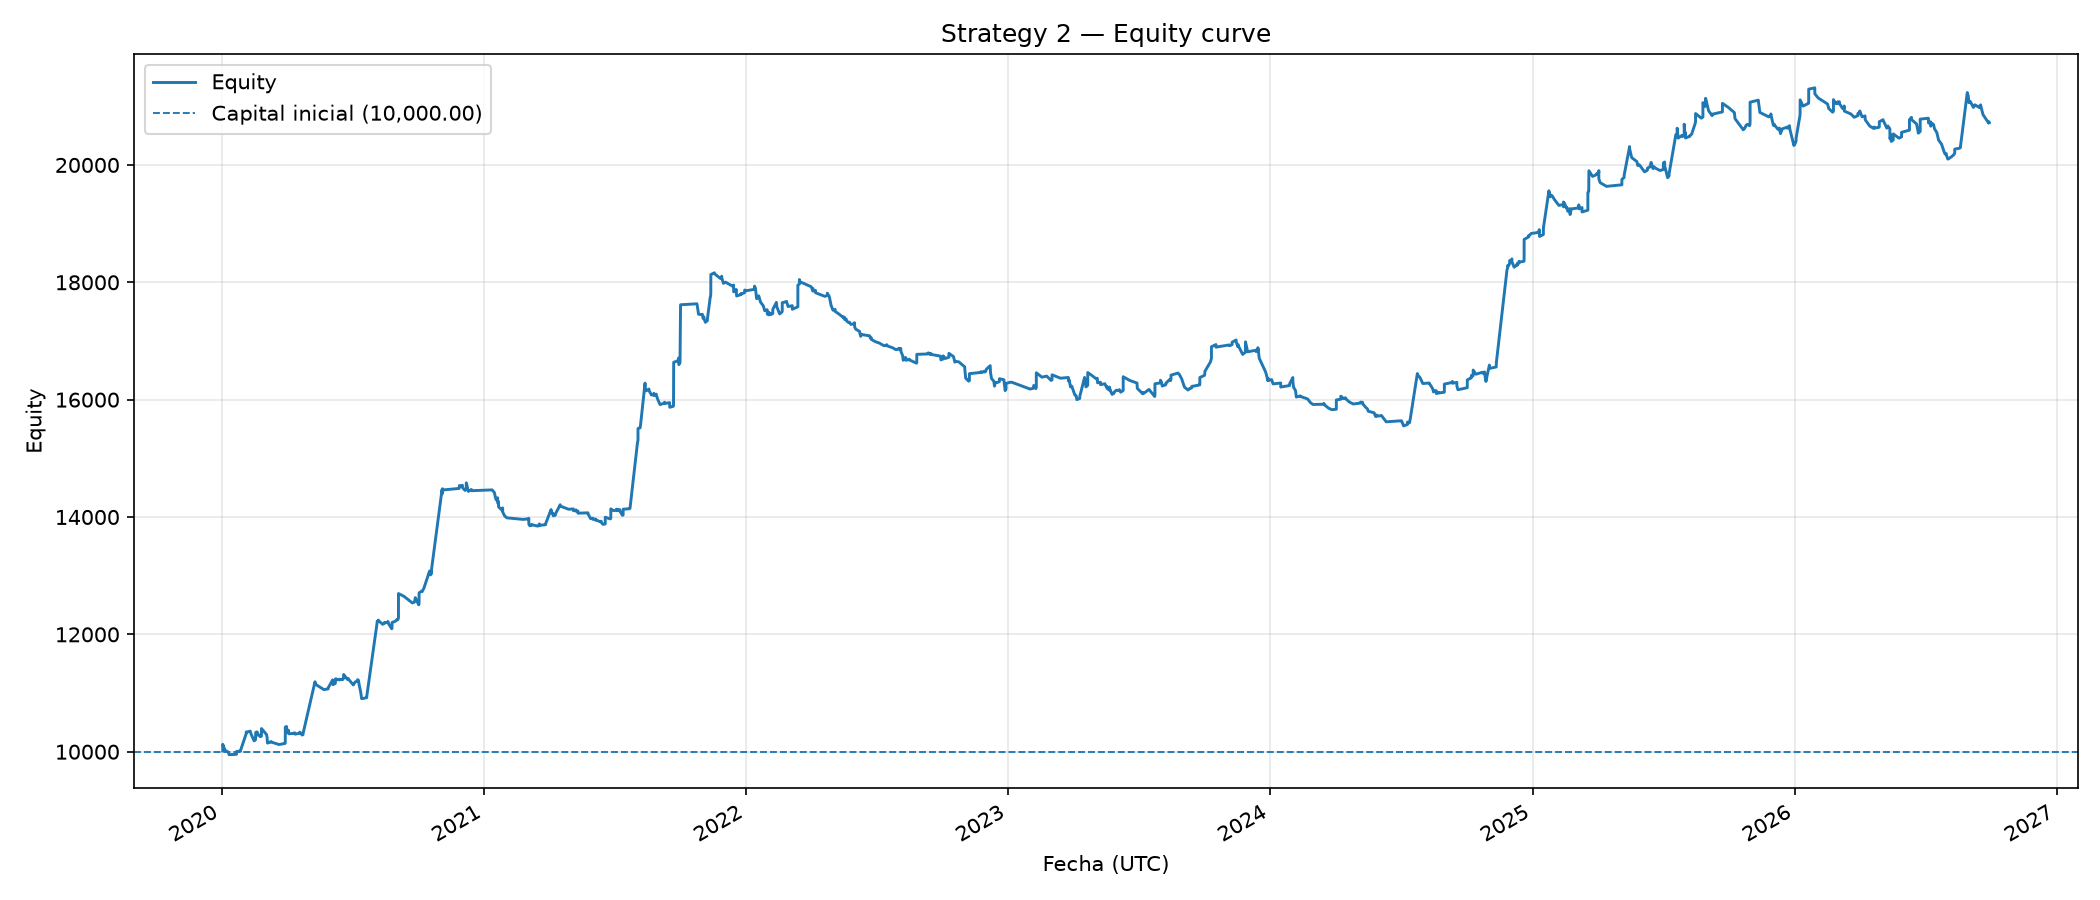
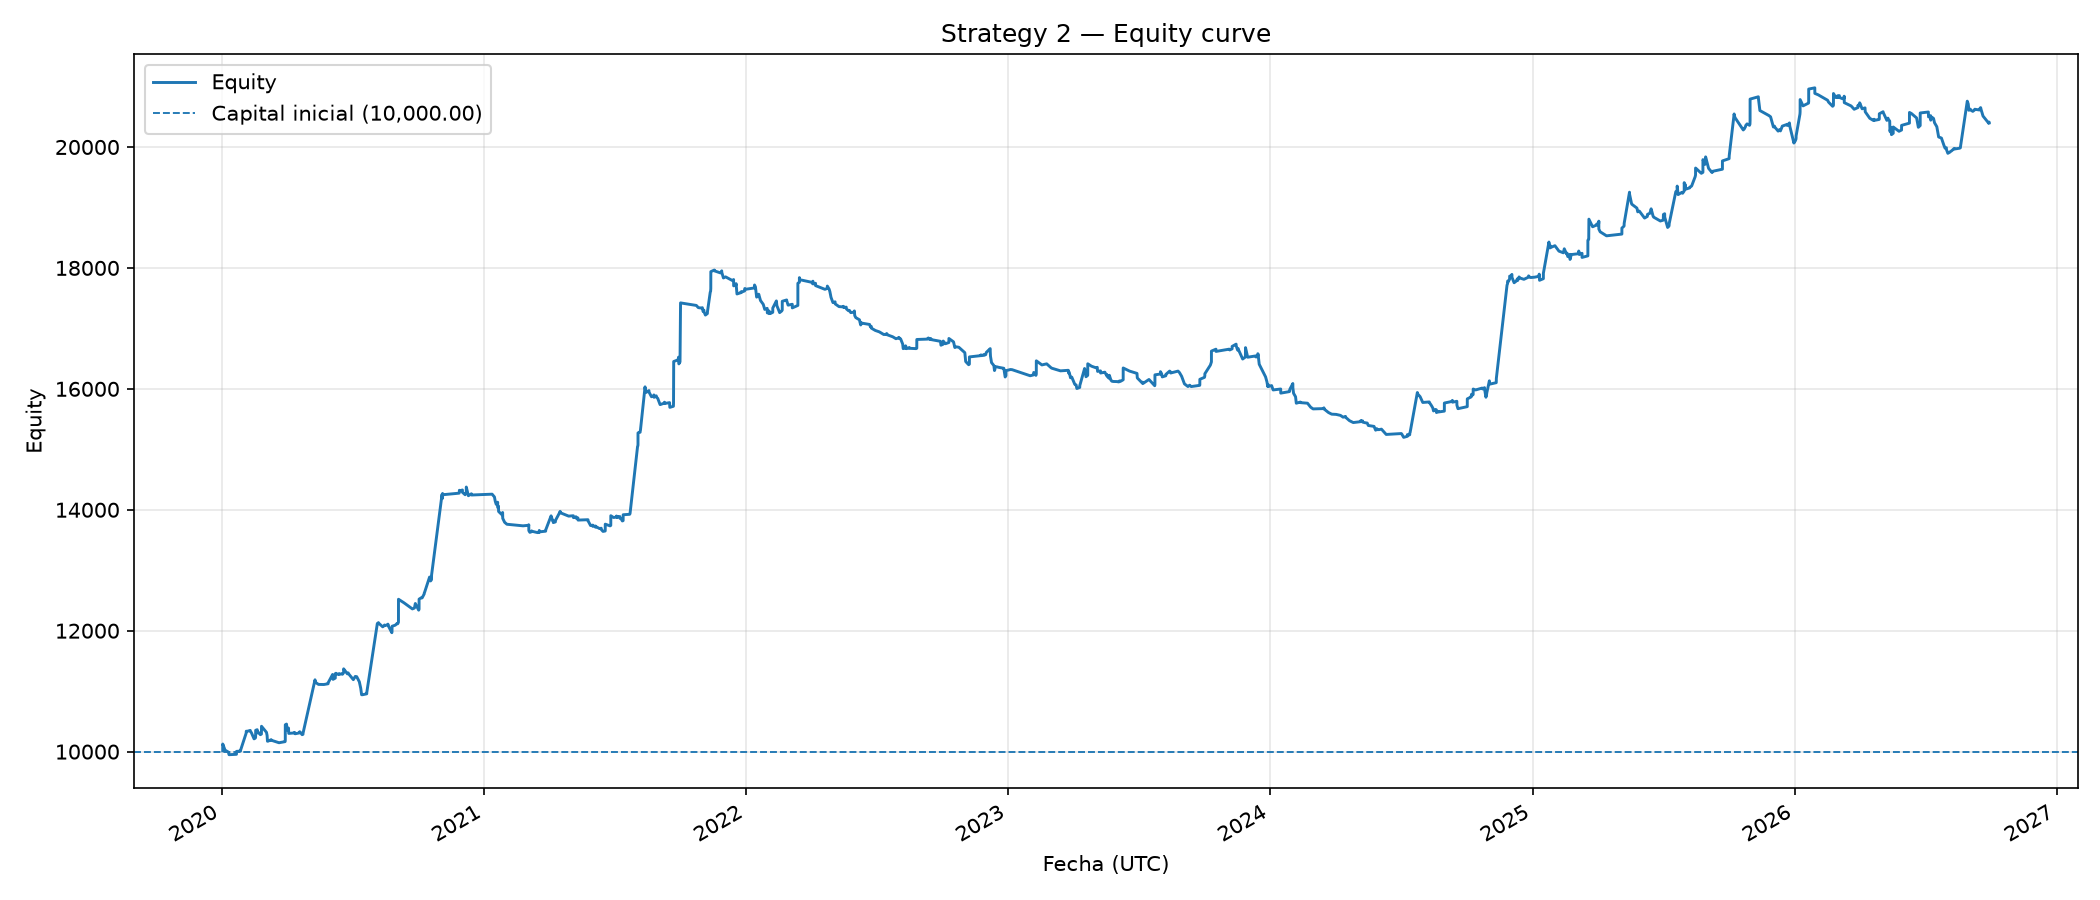
update

diff --git a/strategy/strategy.py b/strategy/strategy.py
@@ -424,6 +424,11 @@ class Backtester:
                  rsi_div_exit: Optional[np.ndarray] = None, verbose: bool = False):
         self.bars, self.cfg, self.verbose = bars, config, verbose
         self.signals = signals if signals is not None else EMACrossStrategy(config).generate_signals(bars)
+        self.ema_fast_line = (
+            self.signals["ema_fast"].to_numpy(float)
+            if "ema_fast" in self.signals
+            else ema(bars.close, config.ema_fast).to_numpy(float)
+        )
         if config.entry_atr_enabled:
             if "atr_filter_allowed" in self.signals:
                 self.entry_atr_allowed = self.signals["atr_filter_allowed"].to_numpy(bool)
@@ -737,6 +742,21 @@ class Backtester:
             return RSI_DIVERGENCE_BULL_REASON
         return None
 
+    def _first_candle_ema_fast_exit_reason(self, i: int) -> Optional[str]:
+        """Cierra si la vela posterior a la primera ejecución confirma contra EMA rápida."""
+        pos = self.position
+        if (pos is None or pos.entry_bar_index < 0
+                or i != pos.entry_bar_index + 1 or i >= len(self.ema_fast_line)):
+            return None
+        fast = self.ema_fast_line[i]
+        if not np.isfinite(fast):
+            return None
+        if pos.side == 1 and self.c[i] < fast:
+            return "FIRST_CANDLE_EMA_FAST_EXIT"
+        if pos.side == -1 and self.c[i] > fast:
+            return "FIRST_CANDLE_EMA_FAST_EXIT"
+        return None
+
     def _ema55_touch_weakness_exit_reason(self, i: int) -> Optional[str]:
         """Cierra LONG tras toques repetidos a EMA55 sin ruptura confirmada.
 
@@ -992,7 +1012,15 @@ class Backtester:
                           f"-{cfg.monthly_loss_limit_pct:g}% alcanzado; sin entradas hasta "
                           f"{scope}", flush=True)
 
-            if not stop_hit and bool(self.signals["valid"].iloc[i]):
+            first_candle_exit = (
+                self._first_candle_ema_fast_exit_reason(i)
+                if not stop_hit else None
+            )
+            if first_candle_exit is not None:
+                # La condición se conoce al cierre de la vela posterior a la
+                # primera ejecución y se liquida en la apertura siguiente.
+                self.pending_exit = (first_candle_exit, 100.0)
+            elif not stop_hit and bool(self.signals["valid"].iloc[i]):
                 target = int(self.signals["target"].iloc[i])
                 if cfg.entry_atr_enabled and not self.entry_atr_allowed[i]:
                     target = 0

diff --git a/tests/test_entry_partial_timing.py b/tests/test_entry_partial_timing.py
@@ -71,6 +71,43 @@ def test_entry_is_split_between_next_open_and_same_candle_close():
 
 
 @pytest.mark.parametrize(
+    ("side", "following_close", "should_exit"),
+    [
+        (1, 99.0, True),   # LONG: cierre por debajo de EMA rápida
+        (1, 100.0, False), # LONG: igualdad no cuenta como estar por debajo
+        (-1, 101.0, True), # SHORT: cierre por encima de EMA rápida
+        (-1, 100.0, False),# SHORT: igualdad no cuenta como estar por encima
+    ],
+)
+def test_first_candle_after_entry_closes_against_fast_ema(
+    side, following_close, should_exit
+):
+    index, bars, signals, config = setup_entry()
+    config.rsi_short_exit_enabled = False
+    signals.loc[index[0], "target"] = side
+
+    # La entrada se ejecuta en la apertura de index[1]. La condición se
+    # comprueba al cierre de index[2] y, si aplica, se ejecuta en index[3].
+    bars.loc[index[2], ["open", "high", "low", "close"]] = [
+        100.0, max(100.5, following_close), min(99.5, following_close), following_close
+    ]
+    next_index = index[-1] + pd.Timedelta("30min")
+    bars.loc[next_index] = [100.0, 100.5, 99.5, 100.0, 1.0]
+    signals.loc[next_index] = signals.iloc[-1]
+
+    engine = Backtester(bars, config, signals=signals)
+    engine.run()
+
+    if should_exit:
+        assert engine.position is None
+        assert engine.trades[-1].reason == "FIRST_CANDLE_EMA_FAST_EXIT"
+        assert engine.trades[-1].exit_time == next_index
+    else:
+        assert engine.position is not None
+        assert not engine.trades
+
+
+@pytest.mark.parametrize(
     ("side", "close", "expected_add"),
     [
         (1, 101.0, True),

diff --git a/tests/test_ema55_touch_exit.py b/tests/test_ema55_touch_exit.py
@@ -44,6 +44,8 @@ def make_engine(closes, touches, *, side=1, timeframe="30min", entry_bar=0):
         {"valid": True, "target": 0, "trend_bias": 0}, index=bars.index
     )
     engine = Backtester(bars, config, signals=signals)
+    # Aísla las pruebas de EMA55 de la nueva salida de confirmación por EMA rápida.
+    engine.ema_fast_line = np.full(len(bars), 90.0 if side == 1 else 110.0)
     engine.ema55_line = np.full(len(bars), 100.0)
     engine.ema55_touches = np.asarray(touches, dtype=bool)
     engine.position = Position(
